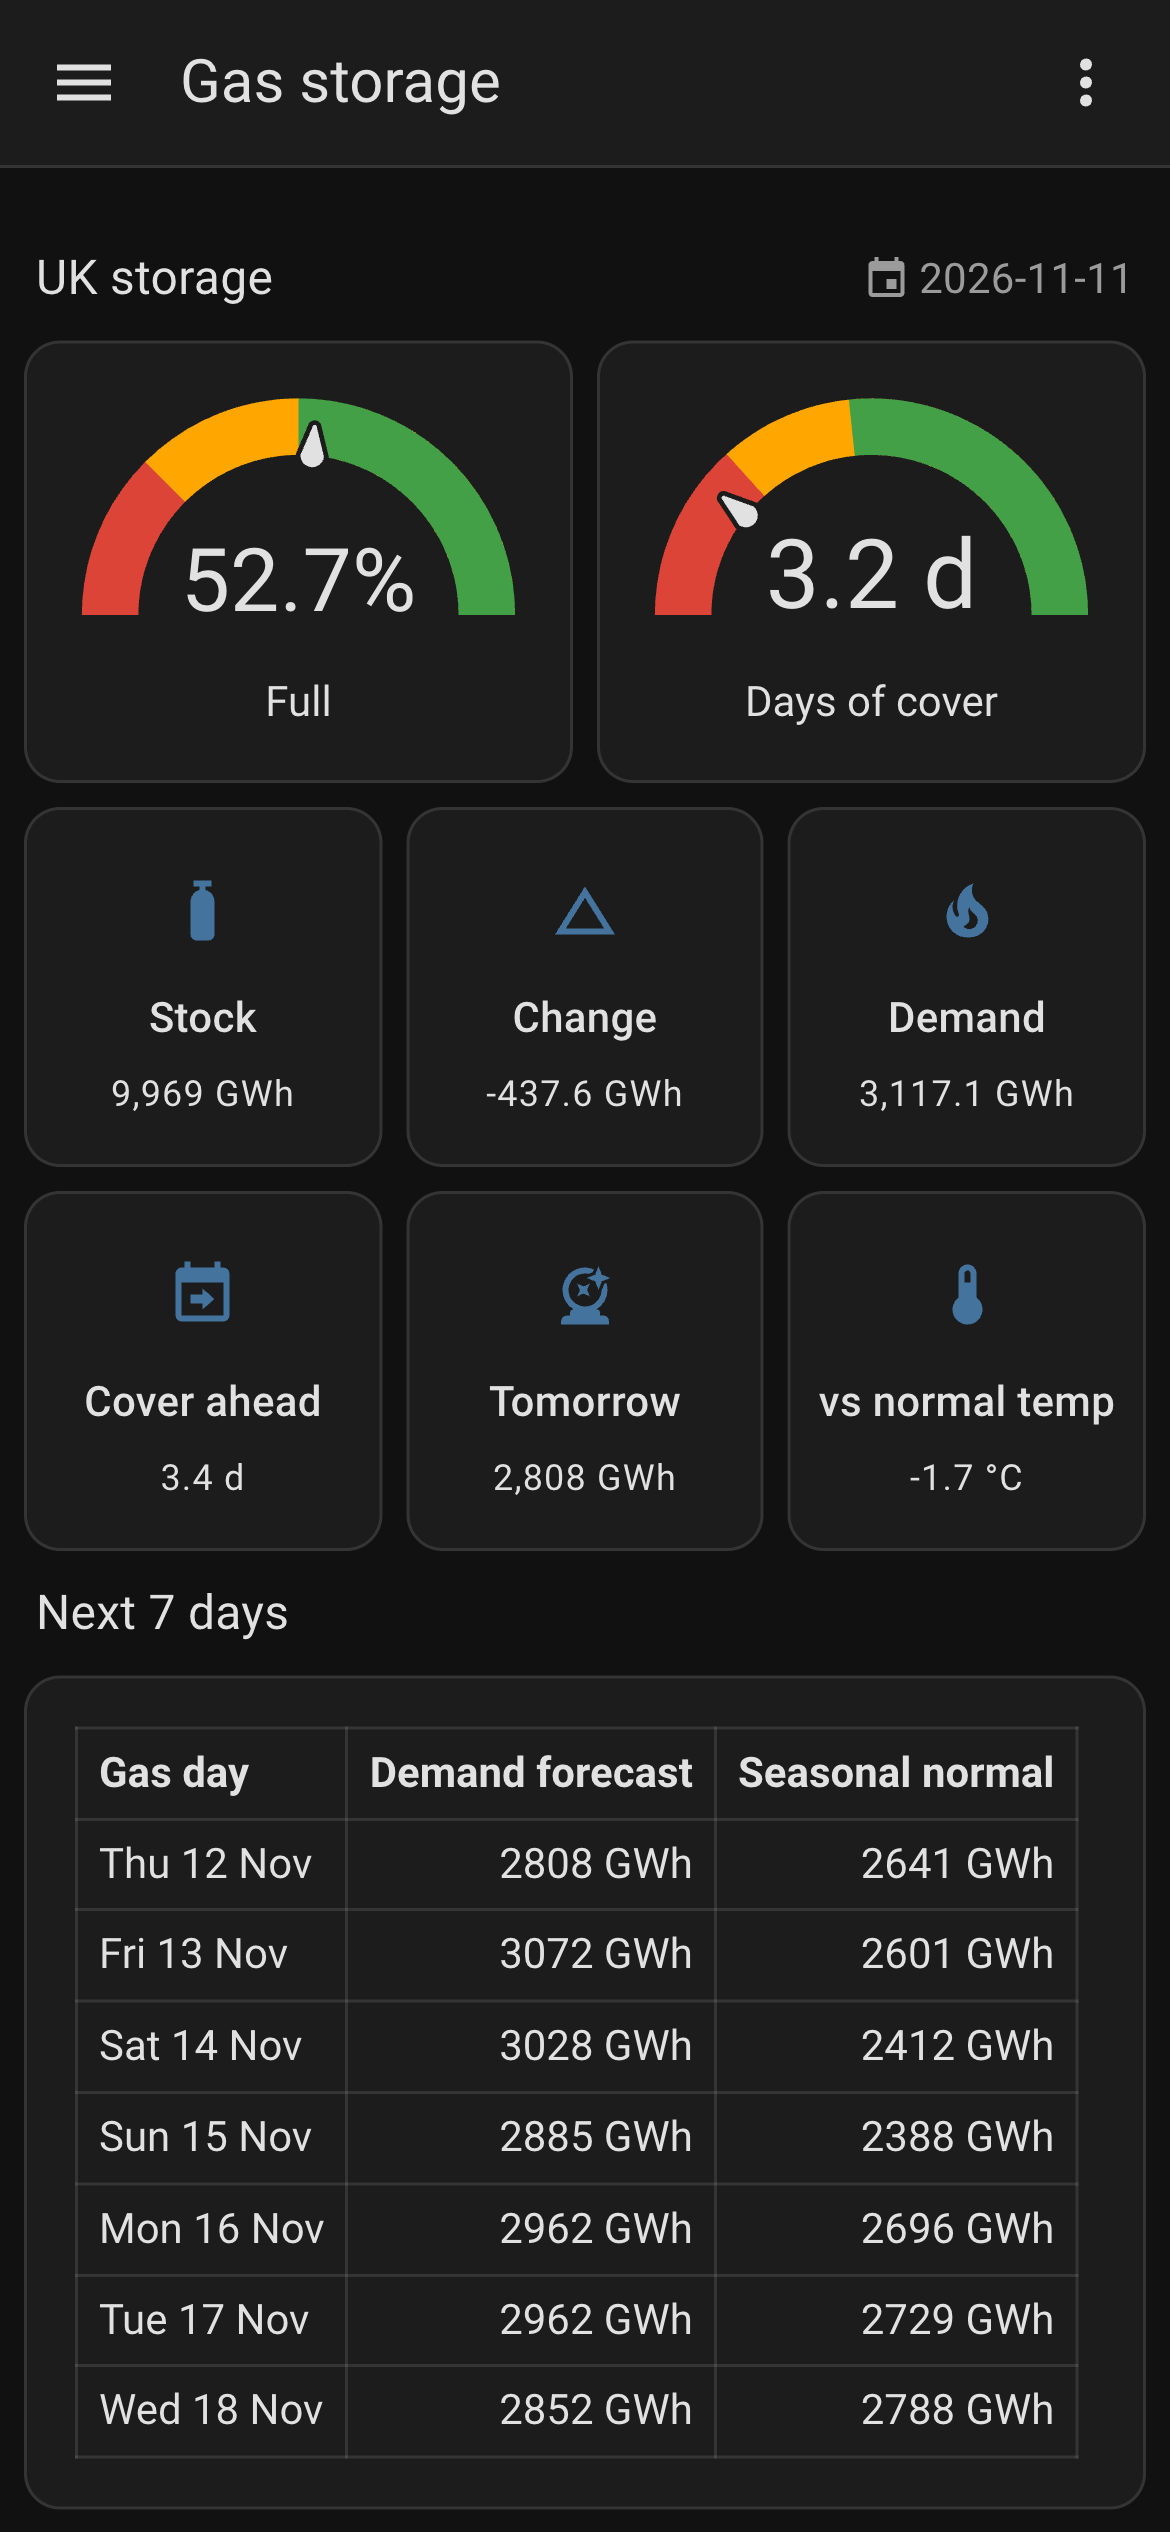
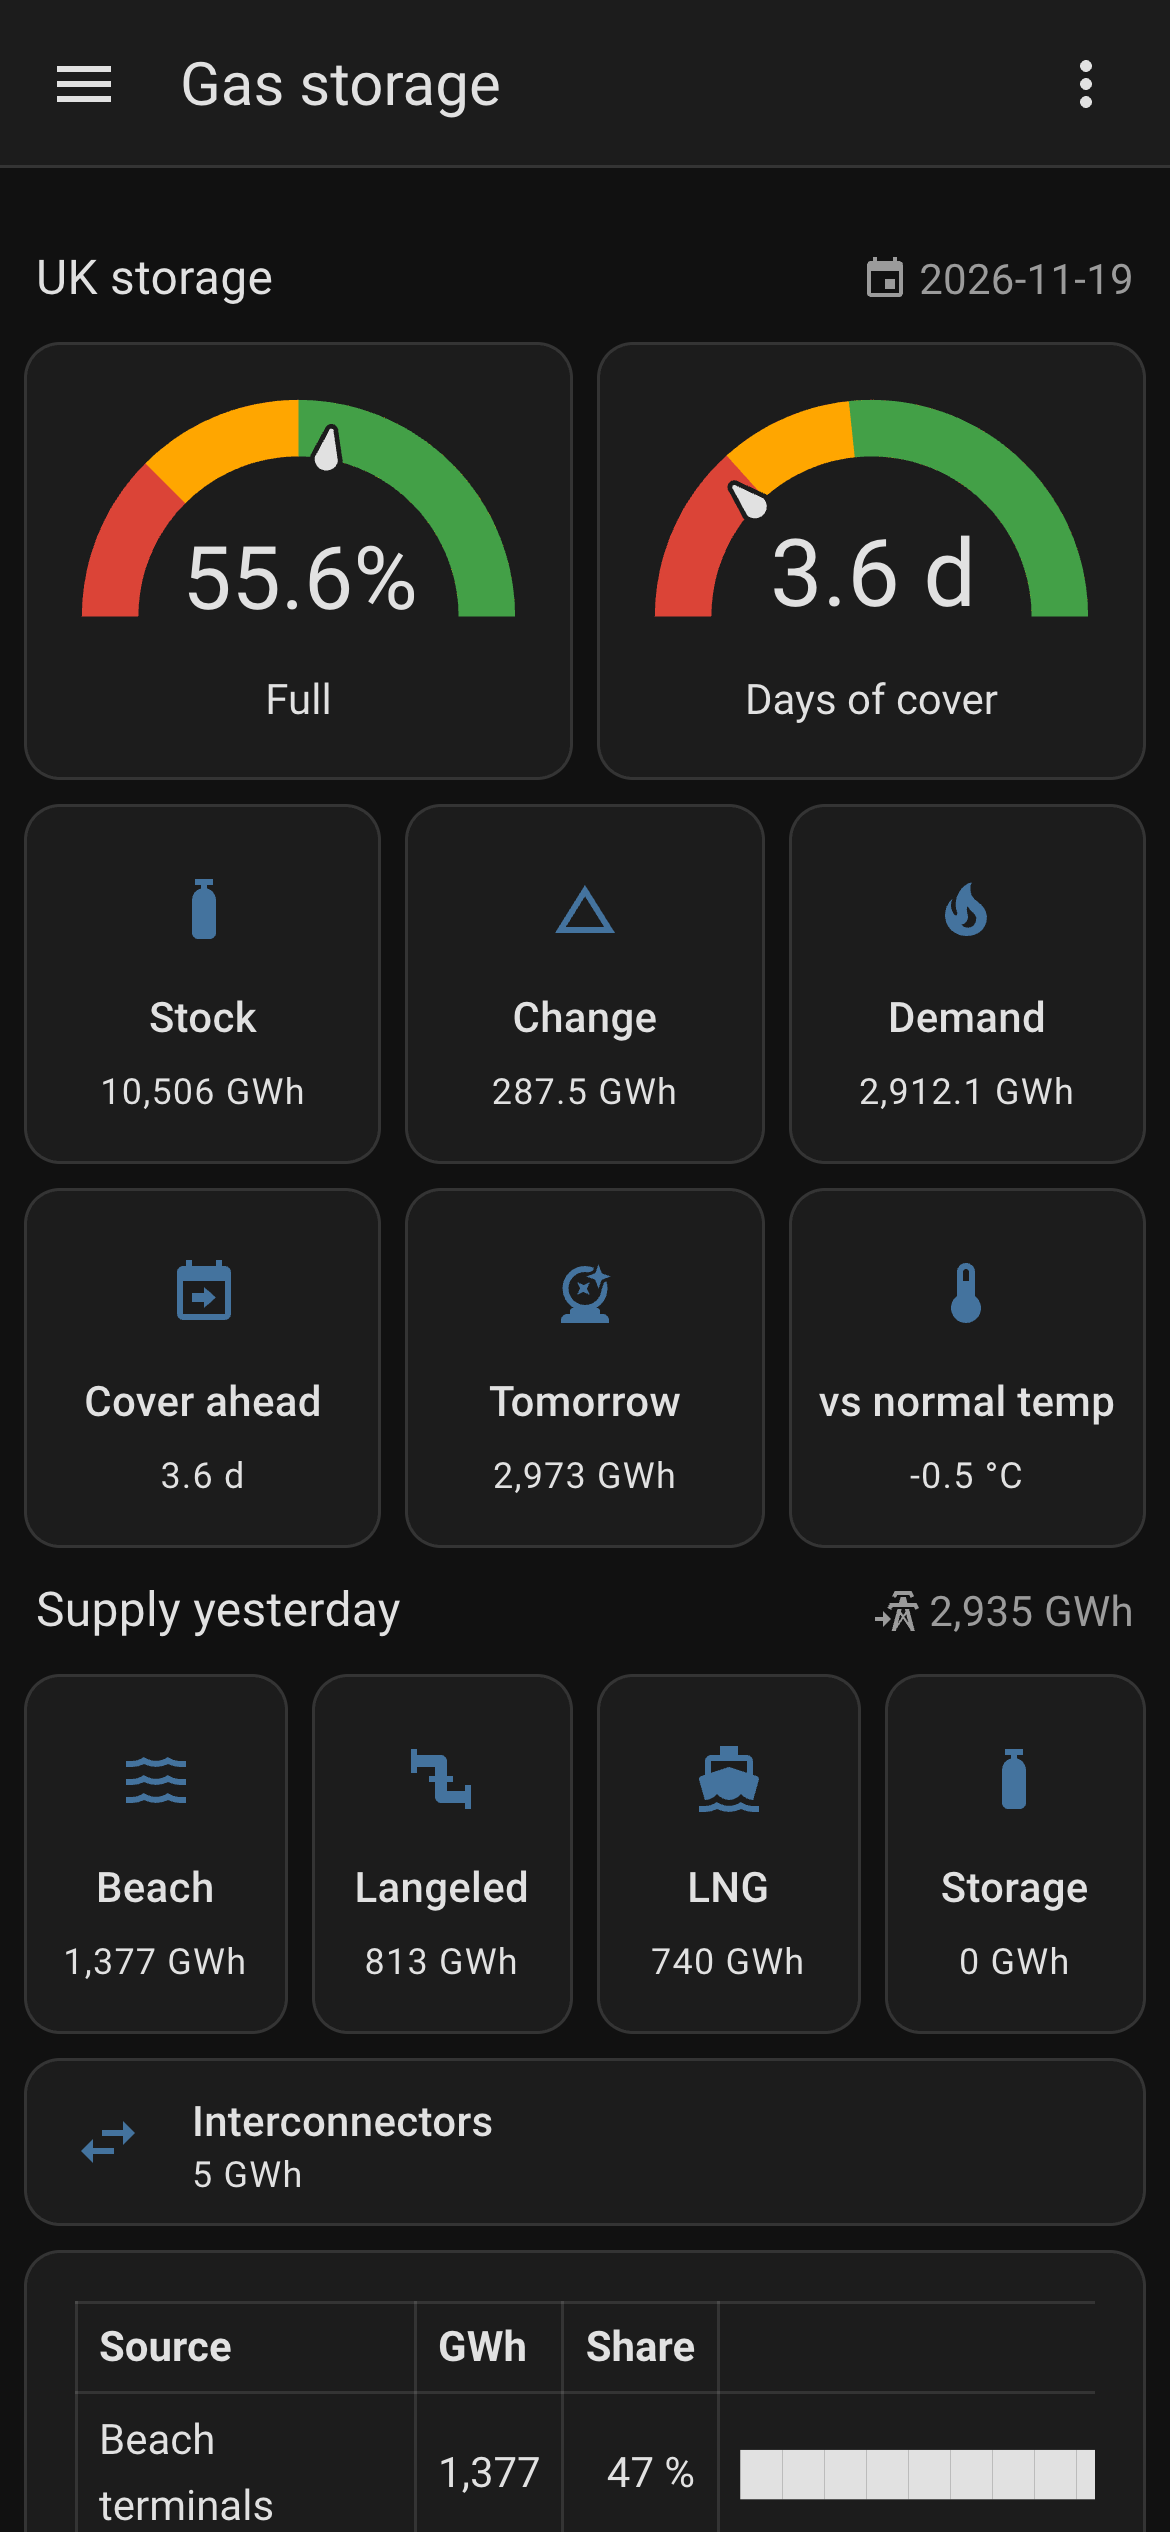
Shorten supply tile labels and refresh dashboard screenshots
"Beach terminals" and "Norway (Langeled)" were truncated on the
quarter-width supply tiles, so the tiles say "Beach" and "Langeled".
The share table and chart keep the full names. Screenshots retaken
from the lab on 0.1.5.

diff --git a/README.md b/README.md
@@ -117,7 +117,7 @@ Left column, top to bottom:
 | **vs normal temp** tile | Temperature vs normal | Negative = colder than usual |
 | **Rough** tile | Rough percent full | Only shown when Rough holds gas |
 | Badge next to "Supply yesterday" | Supply total | All gas put into the network on the previous gas day |
-| **Beach terminals**, **Norway (Langeled)**, **LNG**, **Storage** tiles | Supply sensors | Where that gas came from |
+| **Beach**, **Langeled**, **LNG**, **Storage** tiles | Supply sensors | Where that gas came from (Beach is Supply beach terminals; Langeled is Supply Norway (Langeled)) |
 | **Interconnectors** tile | Supply interconnectors | Only shown when gas is coming in through them |
 | Supply share table | Supply sensors | Each source's share of the day's supply. Beach terminals and Norway (Langeled) are close to flat all winter; LNG and storage cover the rise on cold days |
 | **Next 7 days** table | Demand forecast (`forecast` attribute) | Forecast demand per gas day next to the seasonal normal; a big gap above normal means a cold spell is expected |
